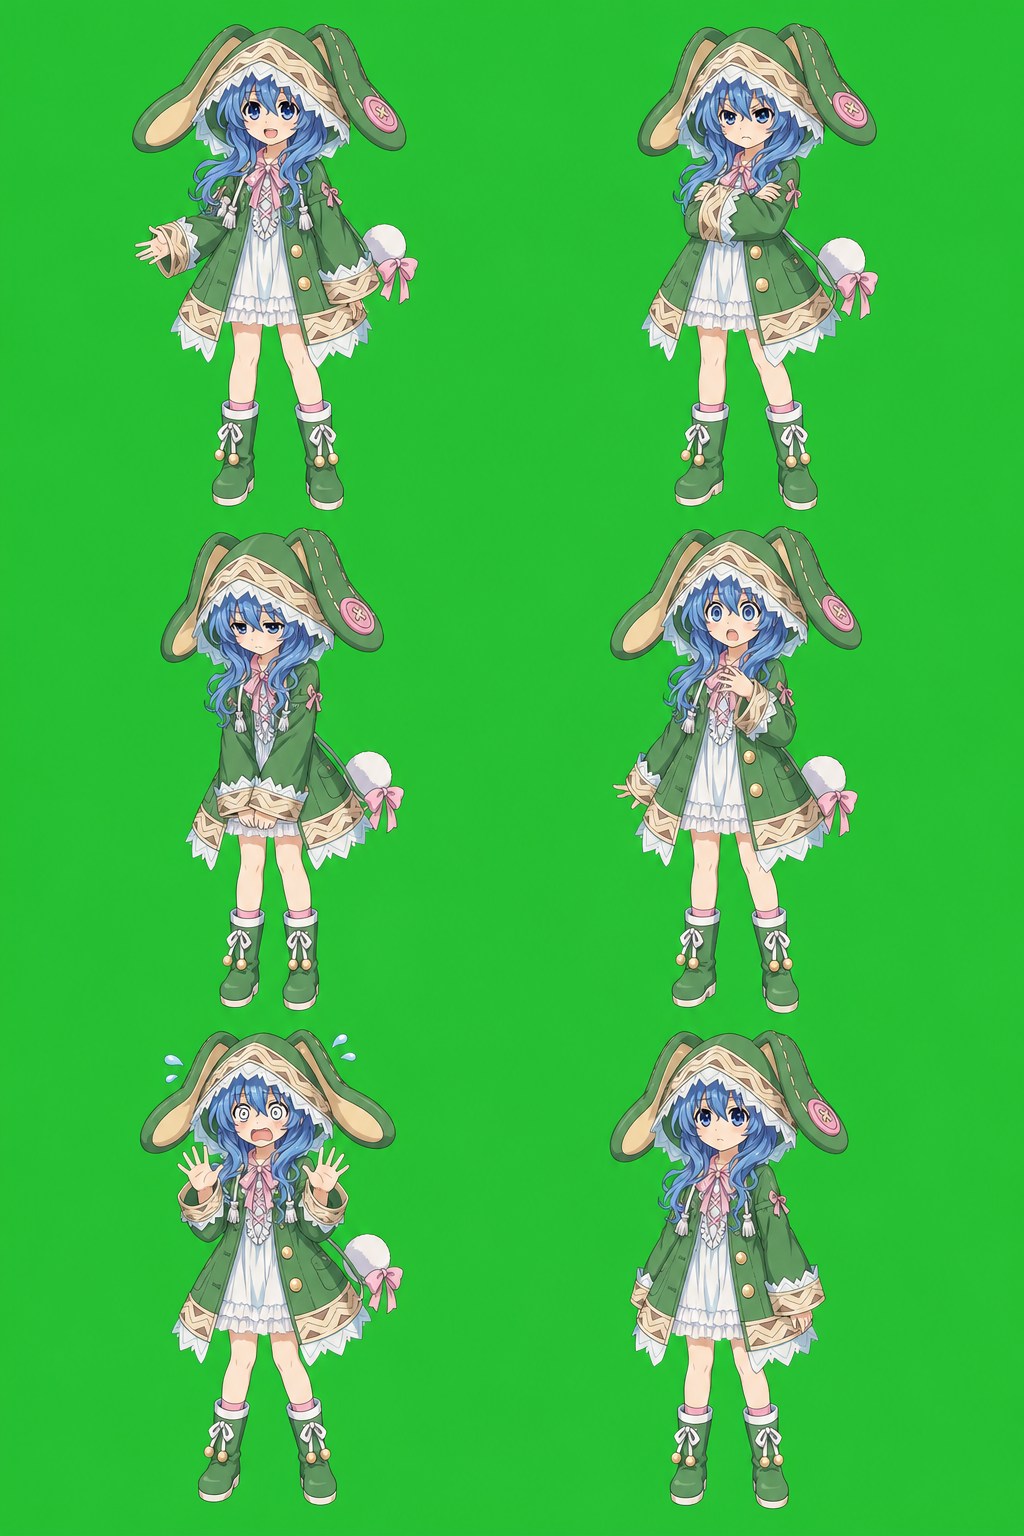
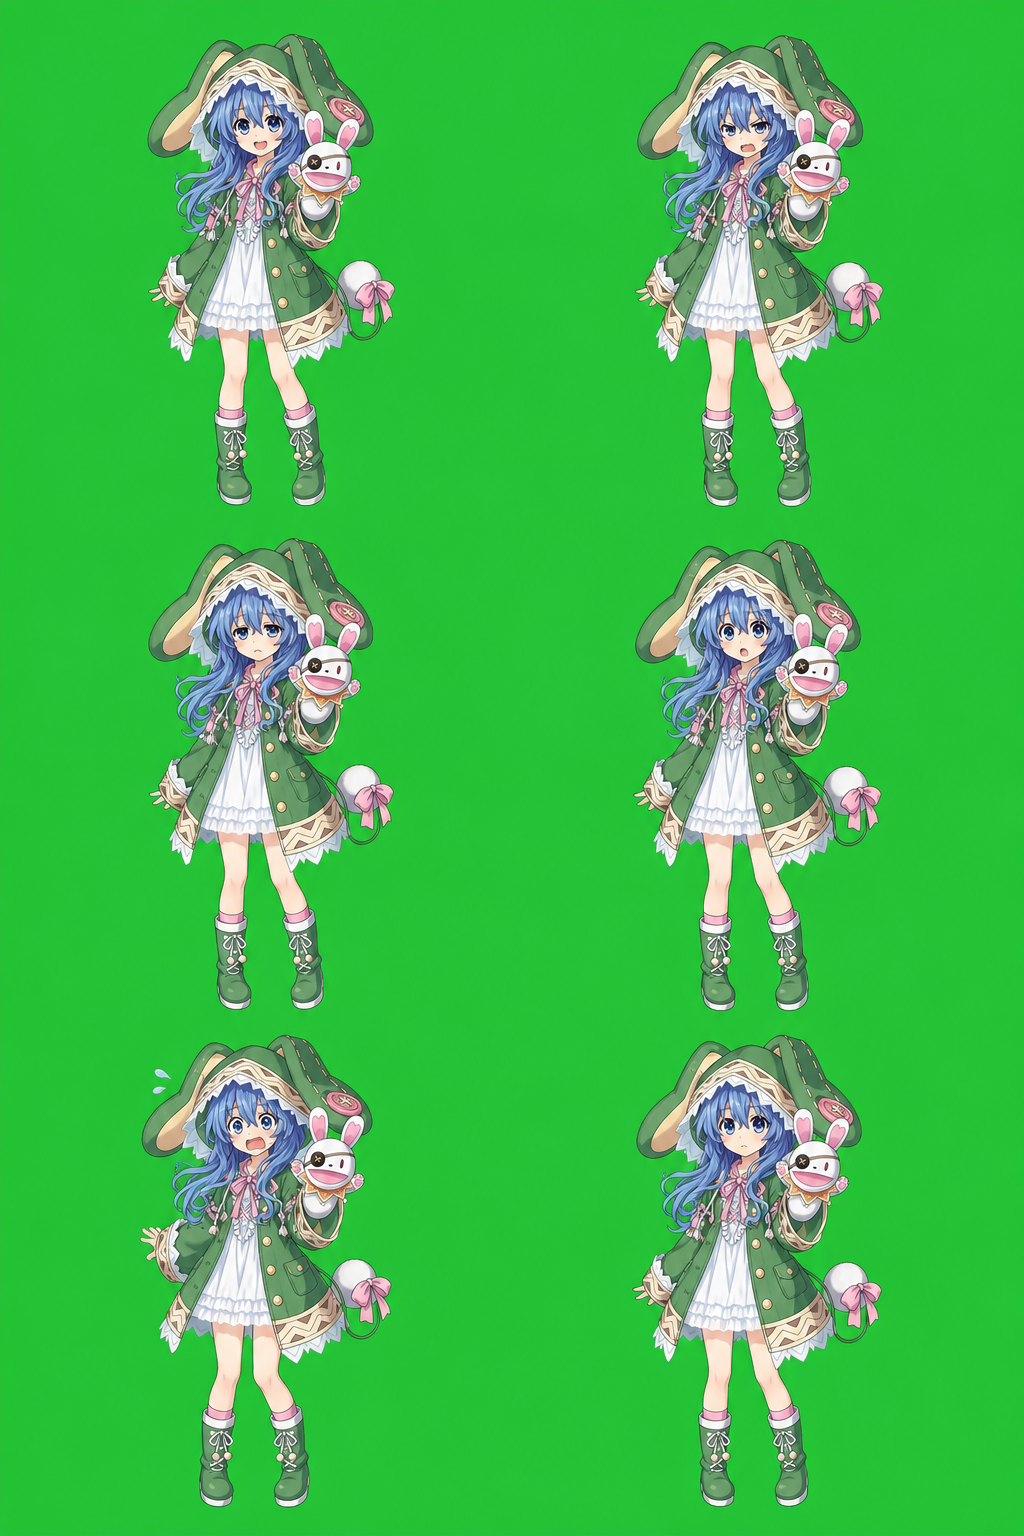
fix: add puppet to Sankaku portraits

Changed region(s): [[0.125, 0.0, 0.4062, 1.0], [0.5938, 0.0, 0.875, 1.0]]

diff --git a/art/characters/mainline-generation.md b/art/characters/mainline-generation.md
@@ -78,3 +78,11 @@
 - 後處理：`split_emotion_image.py` 使用綠幕 gutter 偵測切割；`remove_bk.py` 使用 `isnet-anime`，ONNX session 以 `CUDAExecutionProvider` 為首，輸出六張 RGBA PNG。透明度驗證：`validate_png_alpha.py` 六張均通過。
 - runtime 替換：保留既有 `suou_*_portrait.png` 檔名與 Story IR／floor／`main.images` 引用；`normal→suou_happy_portrait.png`、`panic→suou_goofy_portrait.png`，其餘依表情同名。輸出與原檔備份見 `work/mainline-portrait-update-20260828-004505/`。
[1 lines of base64/hex data omitted]
+
+## 三角手偶補生成（2026-08-29）
+
[2 lines of base64/hex data omitted]
+- 先以 `split_emotion_image.py` 偵測綠幕 gutter 分格，再以 `remove_bk.py` 的 `isnet-anime`、`CUDAExecutionProvider` 去背；六格均目視確認手偶完整、沒有跨格前景，成品保留為 `art/characters/sankaku/sankaku_<expression>.png`。
[1 lines of base64/hex data omitted]
+- 驗證：`node scripts/validate_story.js`、`git diff --check`；既有 `main.images`、`project/story-ir/main/CH1.json` 與 `project/floors/mapo_1_4.js` 未需改名或重生。

diff --git a/.codex/task-questions/20260828-184205-main-story-ch7-media-review.md b/.codex/task-questions/20260828-184205-main-story-ch7-media-review.md
@@ -2,7 +2,7 @@
 
 - Created: `2026-08-28 18:42:05 +08:00`
 - Task: `主線 CH6-4／CH7 媒體顯示修正`
-- Overall status: `open`
+- Overall status: `resolved`
 - Long-term TODO: `project/mainStory/TODO.md`
 
 ## Questions
@@ -10,15 +10,15 @@
 ### Q1. 三角立繪是否需要手偶
 
 - Classification: `non-blocking`
-- Status: `open`
+- Status: `resolved`
 - Source: 使用者回報「新版的三角立繪沒有手偶」；`project/mainStory/CH1:364-371`
 - Affected scope: `project/images/ms_portrait_sankaku_*.png`、`project/story-ir/main/CH1.json`、`project/floors/mapo_1_4.js`
-- Temporary handling: 暫不改動既有三角立繪與 CH1 演出；本次不受影響的 CH6／CH7 媒體問題照常修正。
-- Decision needed: 請確認新版三角六表情立繪是否必須依來源描述補上手偶；若需要，需提供或確認可追溯的角色參考／修改素材。
-- Decision / current direction: 目前保留現有立繪，因來源描述與現有圖像內容不一致，未猜測補畫手偶。
-- Remaining work: 取得確認後，若需要則更新三角表情素材及其使用鏈，並完成遊戲內驗證。
-- Completion evidence: `project/images/ms_portrait_sankaku_normal.png` 等現有六張圖已目視確認未見手偶；待確認，暫無完成證據。
-- Resolved at: pending
+- Temporary handling: 在收到新的可追溯參考前保留既有立繪；本次不受影響的 CH6／CH7 媒體問題照常修正。
+- Decision needed: 已由使用者提供根目錄 `三角.png` 確認手偶外觀與需求。
+- Decision / current direction: 依來源描述與參考圖，六表情均補上同款兔子手偶；保留既有 runtime 檔名與既有 Story IR／floor 接入。
+- Remaining work: 無；保留既有 question 作永久追溯。
[1 lines of base64/hex data omitted]
+- Resolved at: 2026-08-29
 
 ## Promotion
 

diff --git a/project/mainStory/TODO.md b/project/mainStory/TODO.md
@@ -13,11 +13,11 @@
 
 ## 待確認人物
 
-- Open: `main-story-sankaku-puppet-portrait`
+- Resolved: `main-story-sankaku-puppet-portrait`
   - Scope: `project/mainStory/CH1:364-371`、`project/images/ms_portrait_sankaku_*.png`、`project/story-ir/main/CH1.json`、`project/floors/mapo_1_4.js`。
-  - Current: 來源描述三角手上抓著手偶並使用手偶說話；目前新版三角六表情立繪未見手偶，未猜測補畫或替換素材。
-  - Done when: 確認是否需要手偶；若需要，提供／確認可追溯素材後完成六表情資產、`main.images`、Story IR／floor 使用鏈與遊戲內驗證。
-  - Evidence: `.codex/task-questions/20260828-184205-main-story-ch7-media-review.md` Q1；`ms_portrait_sankaku_normal.png` 等六張現有圖已目視核對。
[1 lines of base64/hex data omitted]
+  - Current: 已依來源描述補上三角手上抓著並使用的兔子手偶；六表情 runtime 立繪、既有檔名、`main.images`、Story IR／floor 使用鏈均已更新，未改動劇本來源。
[1 lines of base64/hex data omitted]
 
 - Open: `mainline-character-portrait-reference-gap`
   - Scope: `project/mainStory/CH1`～`CH7` 的 `梗平`；表妹已不再是缺口。惠惠／來島澄／李嚴的參考圖對應已不再是缺口。
